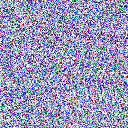
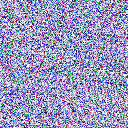
fix frostyfest, add default day

diff --git a/assets/ink_playground/index.html b/assets/ink_playground/index.html
@@ -348,6 +348,19 @@ function linkProg(v,f){const p=gl.createProgram();gl.attachShader(p,v);gl.attach
 function mkUBO(d){const b=gl.createBuffer();gl.bindBuffer(gl.UNIFORM_BUFFER,b);gl.bufferData(gl.UNIFORM_BUFFER,d,gl.DYNAMIC_DRAW);gl.bindBuffer(gl.UNIFORM_BUFFER,null);return b;}
 function updUBO(b,d){gl.bindBuffer(gl.UNIFORM_BUFFER,b);gl.bufferData(gl.UNIFORM_BUFFER,d,gl.DYNAMIC_DRAW);gl.bindBuffer(gl.UNIFORM_BUFFER,null);}
 function mkTex(img,nearest){const t=gl.createTexture();gl.bindTexture(gl.TEXTURE_2D,t);gl.texImage2D(gl.TEXTURE_2D,0,gl.RGBA8,gl.RGBA,gl.UNSIGNED_BYTE,img);if(nearest){gl.texParameteri(gl.TEXTURE_2D,gl.TEXTURE_MIN_FILTER,gl.NEAREST);gl.texParameteri(gl.TEXTURE_2D,gl.TEXTURE_MAG_FILTER,gl.NEAREST);}else{gl.texParameteri(gl.TEXTURE_2D,gl.TEXTURE_MIN_FILTER,gl.LINEAR_MIPMAP_LINEAR);gl.texParameteri(gl.TEXTURE_2D,gl.TEXTURE_MAG_FILTER,gl.LINEAR);gl.generateMipmap(gl.TEXTURE_2D);}gl.texParameteri(gl.TEXTURE_2D,gl.TEXTURE_WRAP_S,gl.REPEAT);gl.texParameteri(gl.TEXTURE_2D,gl.TEXTURE_WRAP_T,gl.REPEAT);return t;}
+function mkTexSNORM(img){
+  const c=document.createElement('canvas');c.width=img.width;c.height=img.height;
+  const ctx=c.getContext('2d',{willReadFrequently:true});ctx.drawImage(img,0,0);
+  const px=ctx.getImageData(0,0,img.width,img.height).data;
+  const signed=new Int8Array(px.buffer,px.byteOffset,px.byteLength);
+  const t=gl.createTexture();gl.bindTexture(gl.TEXTURE_2D,t);
+  gl.texImage2D(gl.TEXTURE_2D,0,gl.RGBA8_SNORM,img.width,img.height,0,gl.RGBA,gl.BYTE,signed);
+  gl.texParameteri(gl.TEXTURE_2D,gl.TEXTURE_MIN_FILTER,gl.NEAREST);
+  gl.texParameteri(gl.TEXTURE_2D,gl.TEXTURE_MAG_FILTER,gl.NEAREST);
+  gl.texParameteri(gl.TEXTURE_2D,gl.TEXTURE_WRAP_S,gl.REPEAT);
+  gl.texParameteri(gl.TEXTURE_2D,gl.TEXTURE_WRAP_T,gl.REPEAT);
+  return t;
+}
 function mk1x1(r,g,b,a){const t=gl.createTexture();gl.bindTexture(gl.TEXTURE_2D,t);gl.texImage2D(gl.TEXTURE_2D,0,gl.RGBA,1,1,0,gl.RGBA,gl.UNSIGNED_BYTE,new Uint8Array([r,g,b,a]));gl.texParameteri(gl.TEXTURE_2D,gl.TEXTURE_MIN_FILTER,gl.NEAREST);gl.texParameteri(gl.TEXTURE_2D,gl.TEXTURE_MAG_FILTER,gl.NEAREST);return t;}
 
 /* --- State --- */
@@ -1044,7 +1057,7 @@ async function init(){
       const f=manifest.ubo_bindings[nm]?.file||`${nm}.bin`;
       const sz=gl.getActiveUniformBlockParameter(program,idx,gl.UNIFORM_BLOCK_DATA_SIZE);
       const bn=f.split('/').pop();
-      let raw;try{raw=await fetchBin(`${BASE}/${f}`);}catch{try{raw=await fetchBin(`${BASE}/default_ink0/${bn}`);}catch{raw=new Uint8Array(sz);}}
+      let raw;try{raw=await fetchBin(`${BASE}/defaults/${f}`);}catch{try{raw=await fetchBin(`${BASE}/default_ink0/${bn}`);}catch{raw=new Uint8Array(sz);}}
       let d=raw;if(raw.length<sz){d=new Uint8Array(sz);d.set(raw);}
       const buf=mkUBO(d); ubos[nm]={glBuf:buf,bindingPoint:bp,data:new Uint8Array(d)}; bp++;
     }
@@ -1410,13 +1423,13 @@ async function switchInk(pi,si){
   }
   for(const tf of(manifest.ink_overridable_textures||[])){
     const u=TF[tf];if(u===undefined)continue;
-    const nearest=(tf==='fp_t_tcb_3E.png'&&use3eNearest);
+    const snorm3e=(tf==='fp_t_tcb_3E.png'&&use3eNearest);
     let loaded=false;
     if(folder){
-      try{const im=await loadImg(`${BASE}/${folder}/${tf}`);texImgs[tf]=im;if(textures[tf])gl.deleteTexture(textures[tf]);const tx=mkTex(im,nearest);gl.activeTexture(gl.TEXTURE0+u);gl.bindTexture(gl.TEXTURE_2D,tx);textures[tf]=tx;loaded=true;}catch{}
+      try{const im=await loadImg(`${BASE}/${folder}/${tf}`);texImgs[tf]=im;if(textures[tf])gl.deleteTexture(textures[tf]);const tx=snorm3e?mkTexSNORM(im):mkTex(im,false);gl.activeTexture(gl.TEXTURE0+u);gl.bindTexture(gl.TEXTURE_2D,tx);textures[tf]=tx;loaded=true;}catch{}
     }
     if(!loaded){
-      try{const im=await loadImg(`${BASE}/textures/${tf}`);texImgs[tf]=im;if(textures[tf])gl.deleteTexture(textures[tf]);const tx=mkTex(im,nearest);gl.activeTexture(gl.TEXTURE0+u);gl.bindTexture(gl.TEXTURE_2D,tx);textures[tf]=tx;}catch{}
+      try{const im=await loadImg(`${BASE}/textures/${tf}`);texImgs[tf]=im;if(textures[tf])gl.deleteTexture(textures[tf]);const tx=snorm3e?mkTexSNORM(im):mkTex(im,false);gl.activeTexture(gl.TEXTURE0+u);gl.bindTexture(gl.TEXTURE_2D,tx);textures[tf]=tx;}catch{}
     }
   }
   render();
